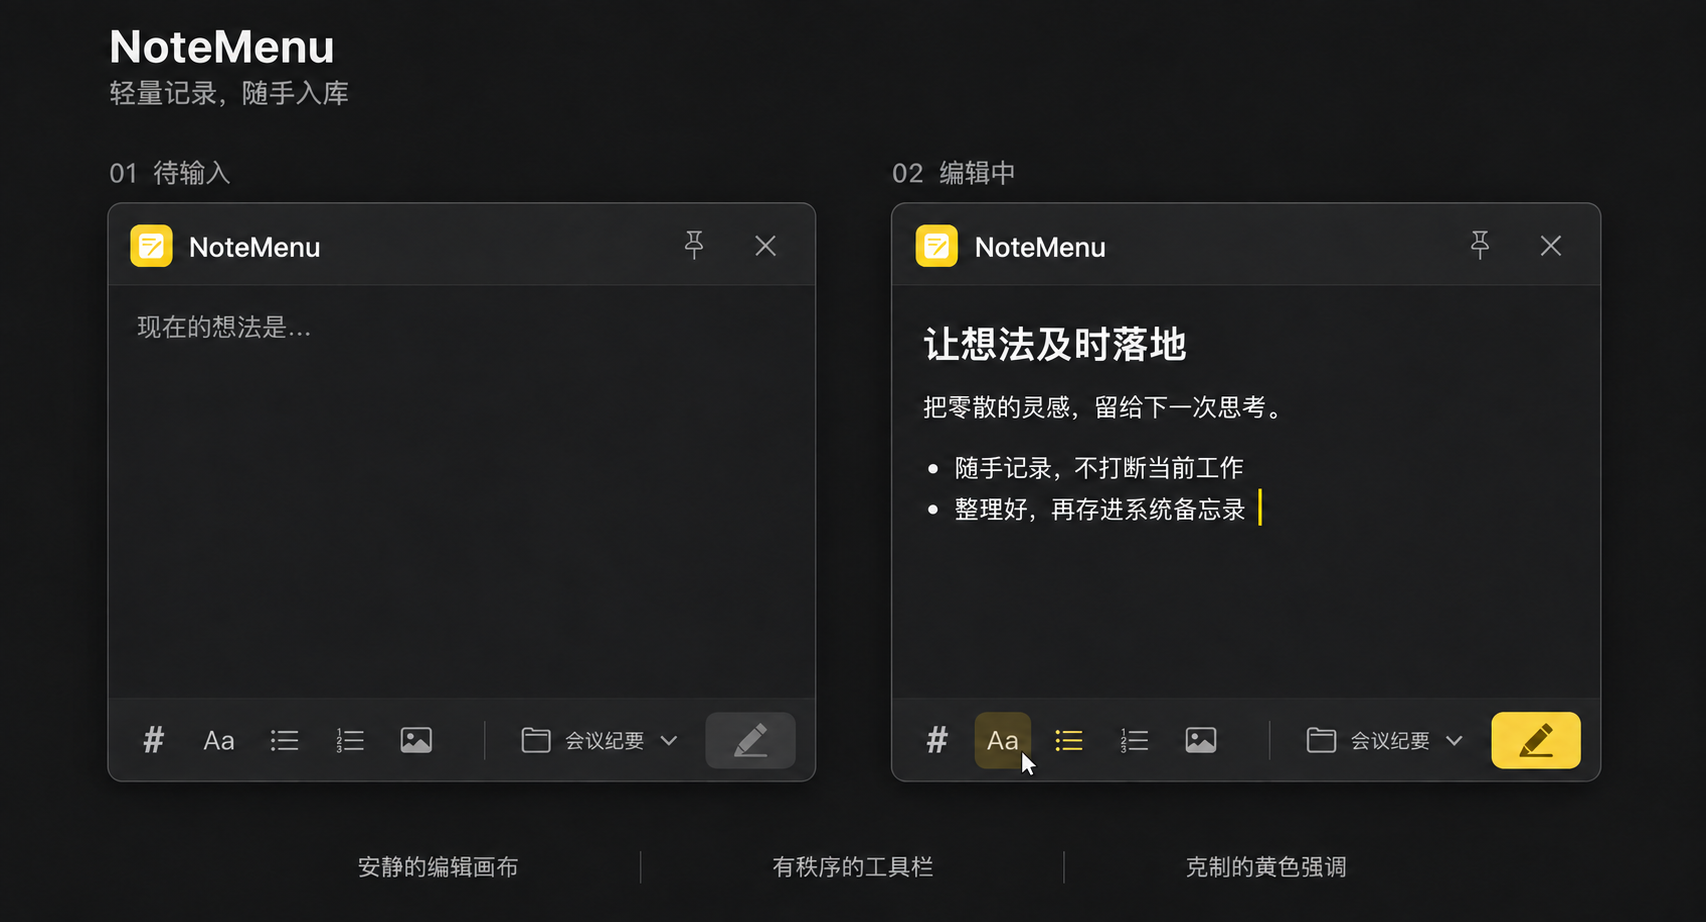
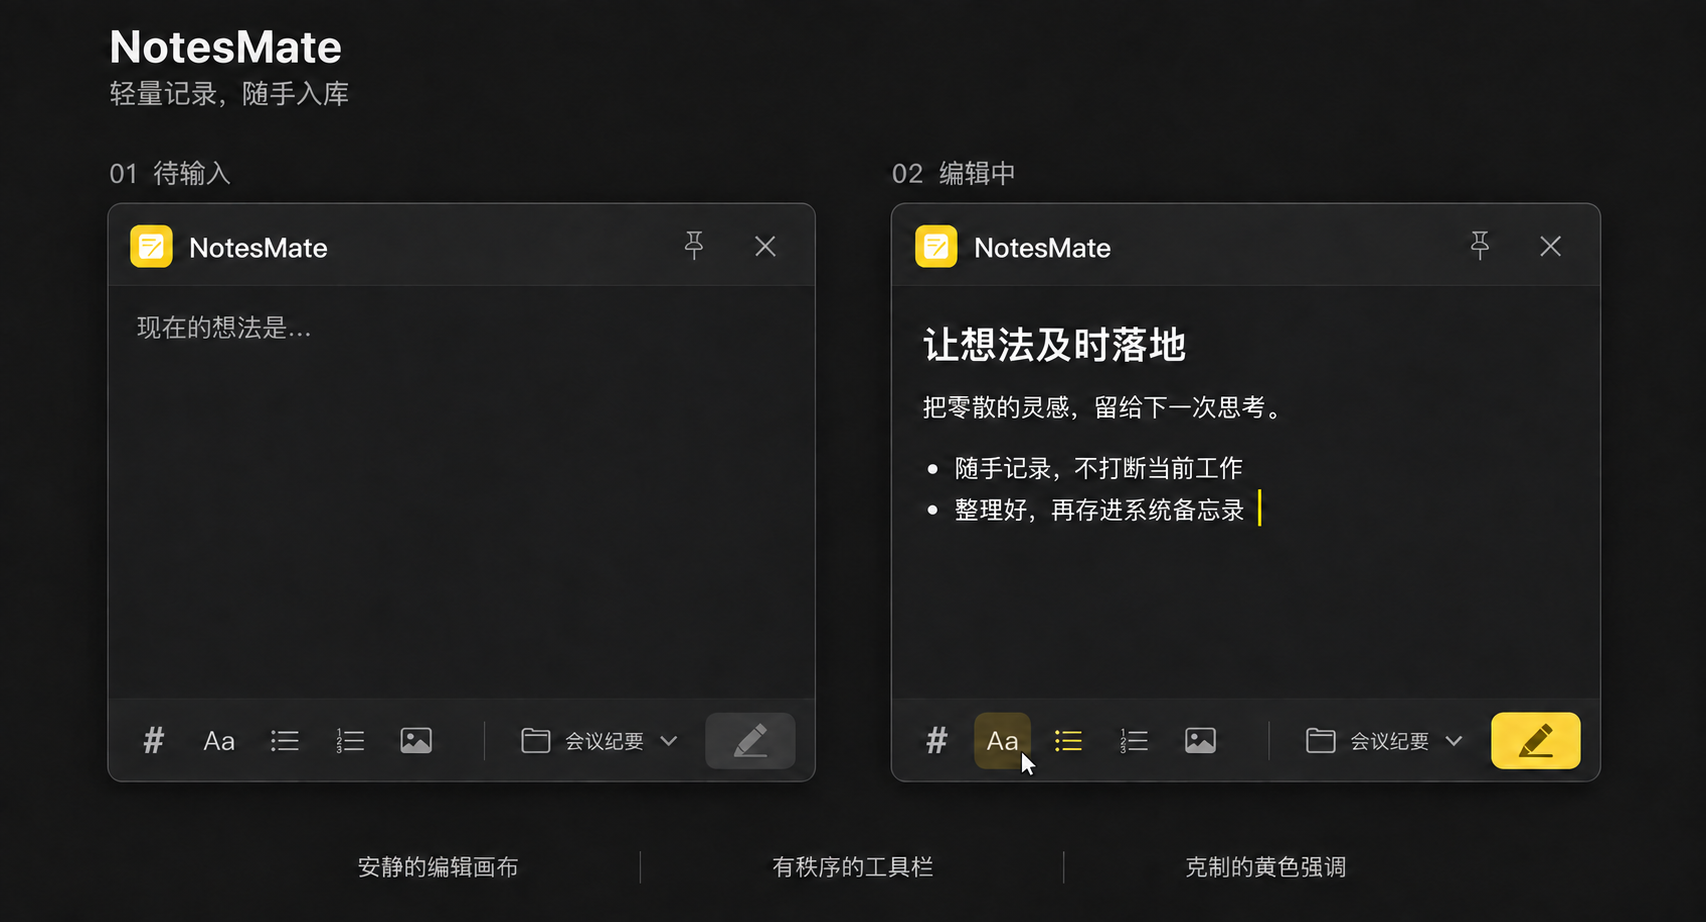
Update final design mockups with NotesMate branding

diff --git a/README.md b/README.md
@@ -4,7 +4,7 @@
 
 A lightweight macOS menu bar app for quickly jotting down notes and saving them to Apple Notes with one click.
 
-![NotesMate 输入窗口](docs/design/main-window-v2.png)
+![NotesMate 输入窗口](docs/design/main-window-v3.png)
 
 ## 功能
 
